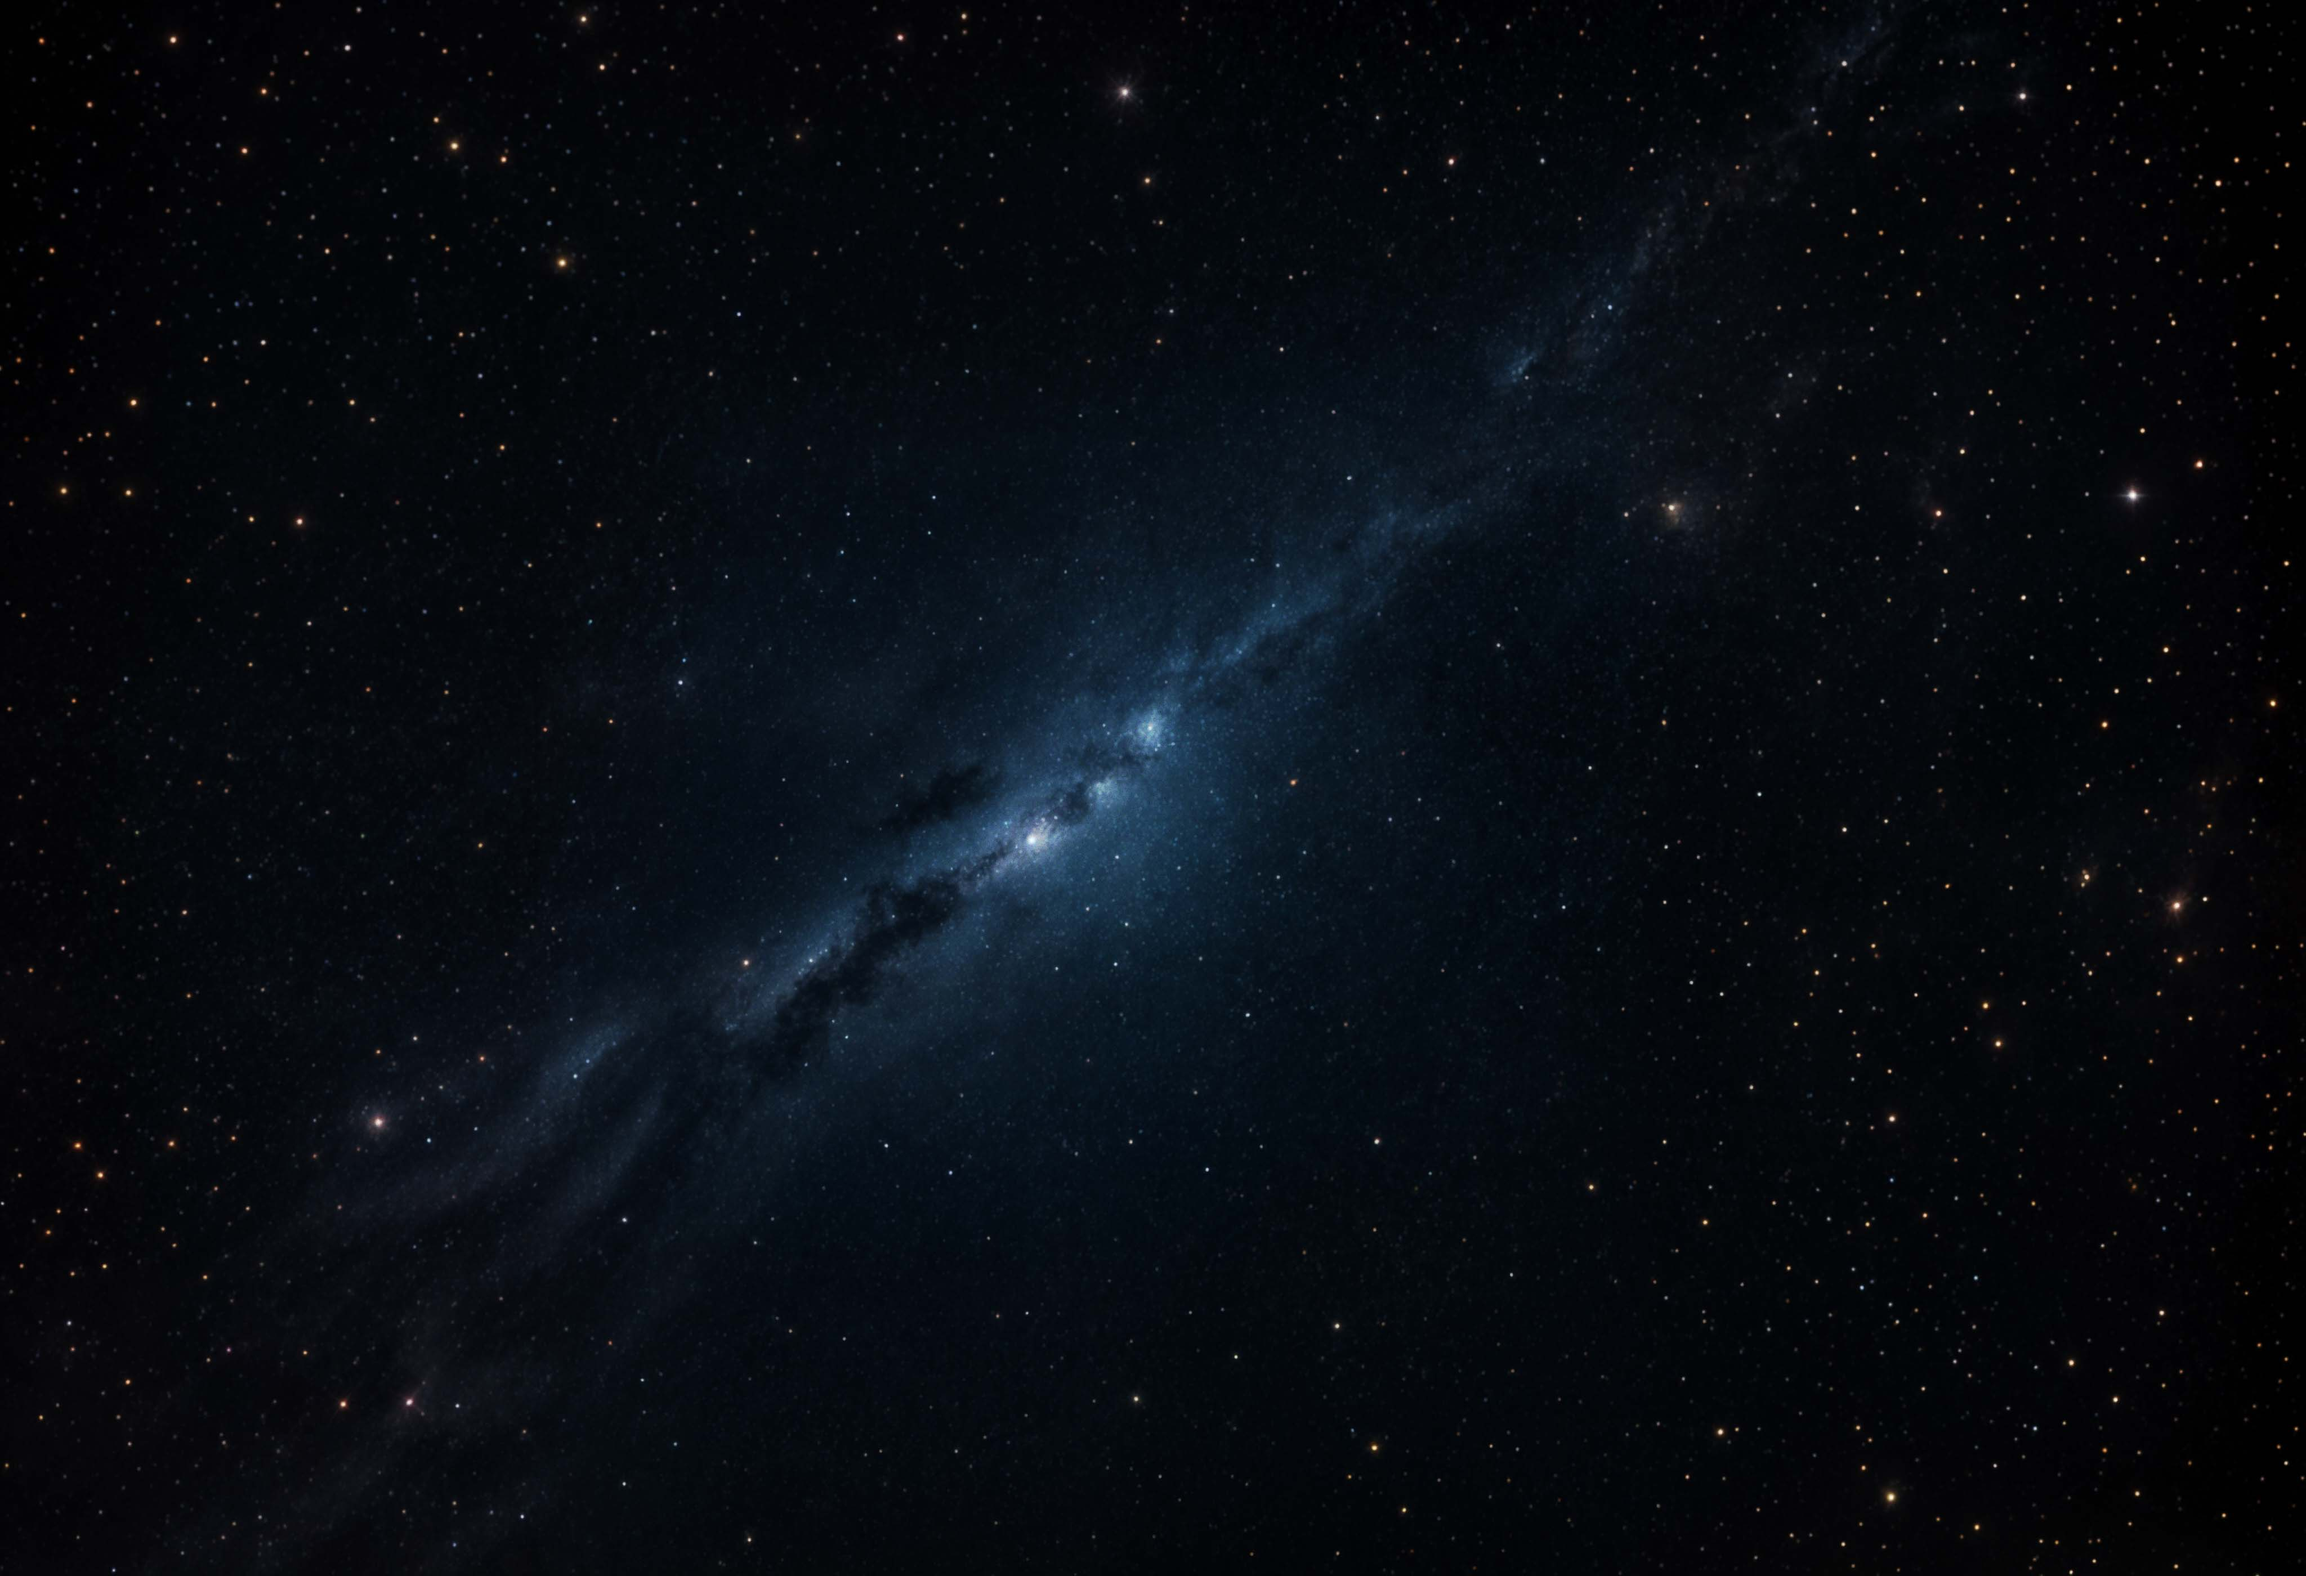
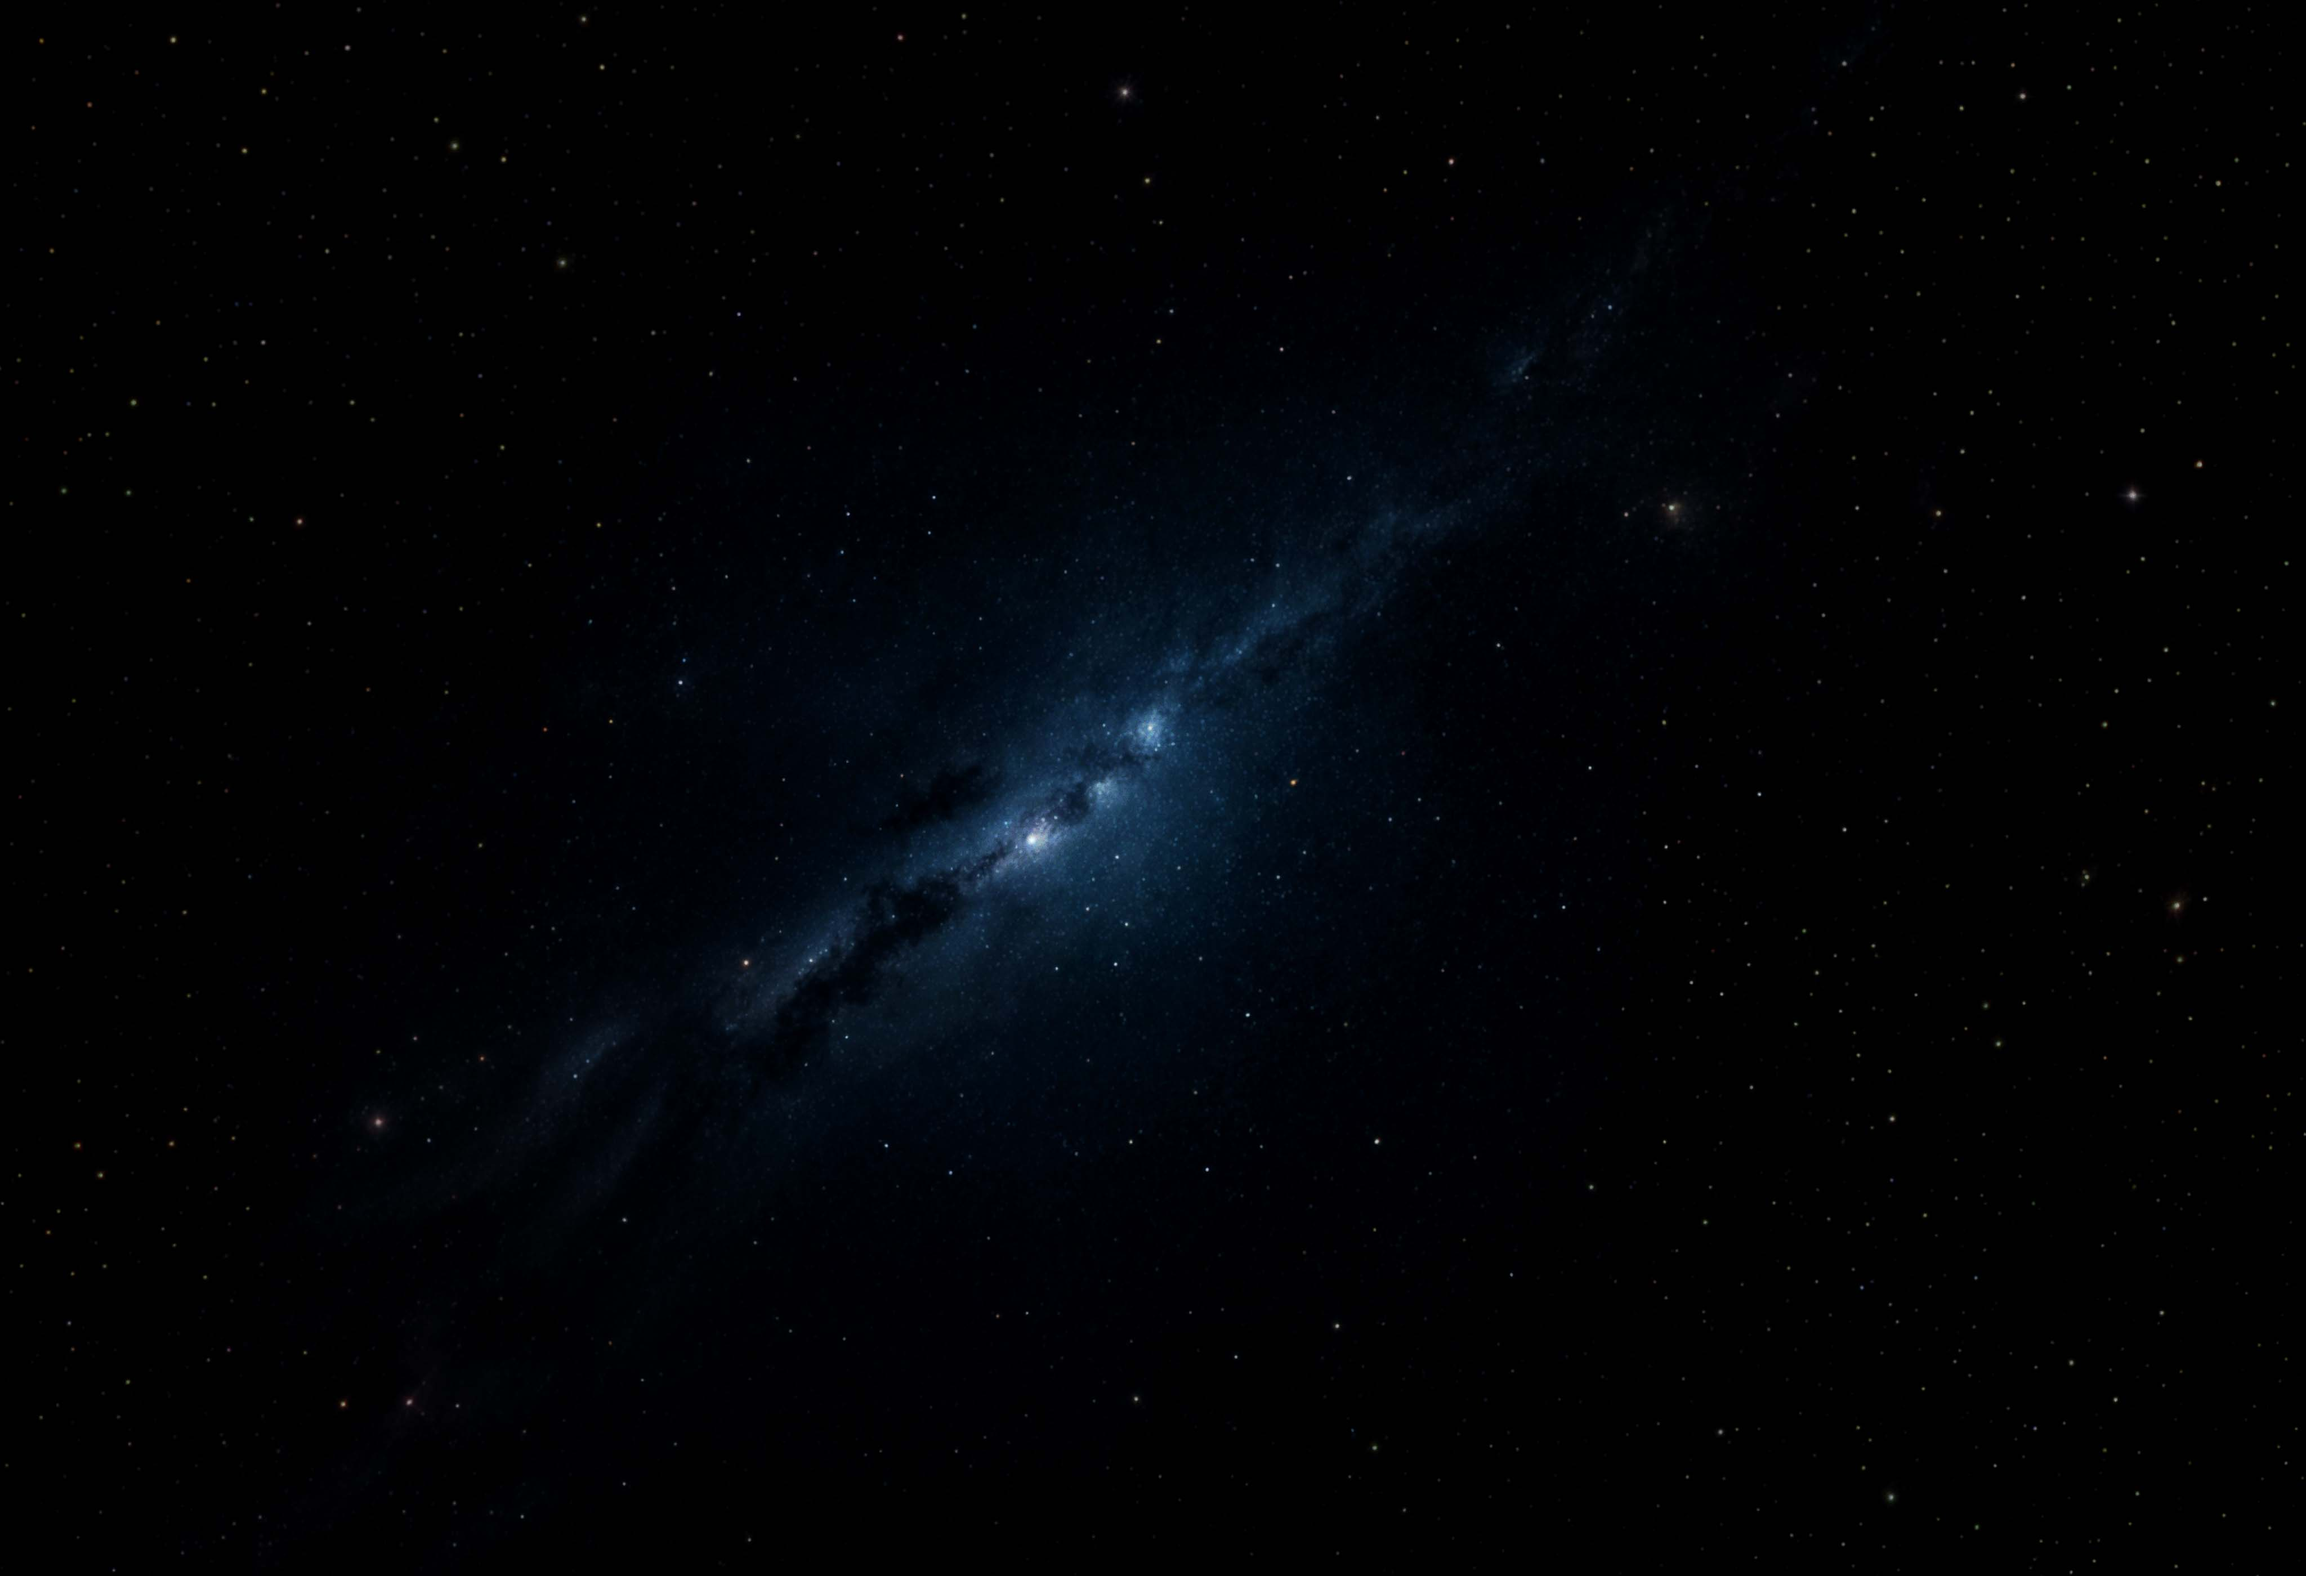
added background element

diff --git a/tests/scroll.html b/tests/scroll.html
@@ -13,6 +13,18 @@
       color: #fff;
       font-family: sans-serif;
     }
+    #starfield-background {
+      position: fixed;
+      top: 0;
+      left: 0;
+      width: 100%;
+      height: 100%;
+      background-image: url('./../assets/starfield-background.jpg');
+      background-size: cover;
+      z-index: 1;
+      pointer-events: none;
+      transform-origin: center center; /* Ensure scaling happens from center */
+    }
     #starfield {
       position: fixed;
       top: 0;
@@ -20,7 +32,8 @@
       width: 100%;
       height: 100%;
       display: block;
-      background-image: url('./../assets/starfield-background.jpg');
+      z-index: 10; /* Much higher z-index to ensure it's above everything */
+      pointer-events: none;
     }
     /* Debug Panels */
     #debug-scroll, #debug-starfield {
@@ -243,11 +256,16 @@
   </style>
 </head>
 <body>
+  <!-- Add background image div -->
+  <div id="starfield-background"></div>
   <canvas id="starfield"></canvas>
   
-  <!-- Debug Panels (only display values at the top) -->
-  <aside id="debug-scroll">ScrollTracker Debug</aside>
-  <aside id="debug-starfield">Starfield Debug</aside>
+  <!-- Content wrapper with full viewport size -->
+  <div id="content-wrapper" style="position: absolute; inset: 0; width: 100%; height: 100%;">
+    <!-- Debug Panels (only display values at the top) -->
+    <aside id="debug-scroll">ScrollTracker Debug</aside>
+    <aside id="debug-starfield">Starfield Debug</aside>
+  </div>
   
   <!-- Settings Toggle Button -->
   <div id="settings-toggle">⚙</div>
@@ -295,6 +313,42 @@
     const lampEffect = initLampEffect();
     const soundSystem = initSoundSystem();
     const rumbleEffect = initRumbleEffect();
+
+    // Start background scaling effect
+    function scaleBackgroundSlowly() {
+      const backgroundElement = document.getElementById('starfield-background');
+      const startTime = performance.now();
+      const duration = 60000; // 60 seconds
+      const startScale = 1.0;
+      const endScale = 1.05; // Scale up by 5%
+      
+      function updateScale(currentTime) {
+        const elapsedTime = currentTime - startTime;
+        
+        if (elapsedTime < duration) {
+          // Calculate progress (0 to 1)
+          const progress = elapsedTime / duration;
+          
+          // Calculate current scale (linear interpolation)
+          const currentScale = startScale + (progress * (endScale - startScale));
+          
+          // Apply scale transform
+          backgroundElement.style.transform = `scale(${currentScale})`;
+          
+          // Continue animation
+          requestAnimationFrame(updateScale);
+        } else {
+          // Animation complete, set final scale
+          backgroundElement.style.transform = `scale(${endScale})`;
+        }
+      }
+      
+      // Start animation
+      requestAnimationFrame(updateScale);
+    }
+    
+    // Start background scaling after a short delay to ensure everything else is loaded
+    setTimeout(scaleBackgroundSlowly, 1000);
 
     // Debug Panels update
     const debugScroll = document.getElementById("debug-scroll");

diff --git a/scripts/modules/rumbleEffect.js b/scripts/modules/rumbleEffect.js
@@ -86,13 +86,32 @@ class RumbleEffect {
       style.zIndex = '5';
       style.pointerEvents = 'none';
       
-      // Move all direct children of body (except starfield) into the wrapper
+      // Get elements we want to explicitly include or exclude
       const starfield = document.getElementById('starfield');
+      const starfieldBackground = document.getElementById('starfield-background');
+      const contentWrapper = document.getElementById('content-wrapper');
+      const debugScroll = document.getElementById('debug-scroll');
+      const debugStarfield = document.getElementById('debug-starfield');
+      
+      // Move all direct children of body into the wrapper with specific rules
       const bodyChildren = Array.from(document.body.children);
       
       bodyChildren.forEach(child => {
-        if (child !== starfield && child !== wrapper) {
-          child.style.pointerEvents = 'auto';
+        // Specifically include these elements in the rumble wrapper
+        const shouldInclude = (
+          child === starfieldBackground || 
+          child === contentWrapper ||
+          (child !== starfield && 
+           child !== wrapper && 
+           child !== debugScroll && 
+           child !== debugStarfield)
+        );
+        
+        if (shouldInclude) {
+          // Enable pointer events for interactive elements
+          if (child.id !== 'starfield-background') {
+            child.style.pointerEvents = 'auto';
+          }
           wrapper.appendChild(child);
         }
       });

diff --git a/scripts/modules/scrollTracker.js b/scripts/modules/scrollTracker.js
@@ -92,10 +92,19 @@ class ScrollTracker extends EventEmitter {
       
       // Emit scroll event for lamp and other listeners
       this.emit("scroll", { impulse: effectiveImpulse, velocity: this.getVelocityKMH() });
-    } else if (delta > 0) { // Downward scroll (for debug feedback only)
+    } else if (delta > 0) { // Downward scroll = deceleration
       const magnitude = Math.min(Math.abs(delta) / this.#config.scrollScalingFactor, 1);
-      const negImpulse = -this.#config.strokeImpulse * (1 + magnitude);
+      
+      // Calculate negative impulse with magnitude scaling
+      const brakeStrength = this.#config.strokeImpulse * 1.5; // Brake strength multiplier
+      const negImpulse = -brakeStrength * (1 + magnitude);
+      
+      // Apply the negative impulse to decelerate
+      this.#state.velocityMS = Math.max(0, this.#state.velocityMS + (negImpulse / this.#config.mass));
       this.#state.lastImpulse = negImpulse;
+      
+      // Emit scroll event for other modules to react
+      this.emit("scroll", { impulse: negImpulse, velocity: this.getVelocityKMH() });
     }
     
     this.emit("update", { velocityKMH: this.getVelocityKMH(), impulse: this.#state.lastImpulse });

diff --git a/scripts/modules/starfieldThruster.js b/scripts/modules/starfieldThruster.js
@@ -1,4 +1,3 @@
-
 import { scrollTracker } from './scrollTracker.js';
 
 /**
@@ -42,7 +41,8 @@ class StarfieldThruster {
       console.error("Canvas element #starfield not found.");
       return;
     }
-    this.#gl = this.#canvas.getContext('webgl');
+    // Create WebGL context with alpha transparency enabled
+    this.#gl = this.#canvas.getContext('webgl', { alpha: true, premultipliedAlpha: false });
     if (!this.#gl) {
       console.error("WebGL not supported.");
       return;
@@ -204,7 +204,8 @@ class StarfieldThruster {
   
   #drawScene() {
     const gl = this.#gl;
-    gl.clearColor(0, 0, 0, 1);
+    // Set clear color with alpha 0 (transparent)
+    gl.clearColor(0, 0, 0, 0);
     gl.clear(gl.COLOR_BUFFER_BIT);
     gl.useProgram(this.#program);
     gl.uniform1f(this.#uPerspectiveLoc, starConfig.perspective);
